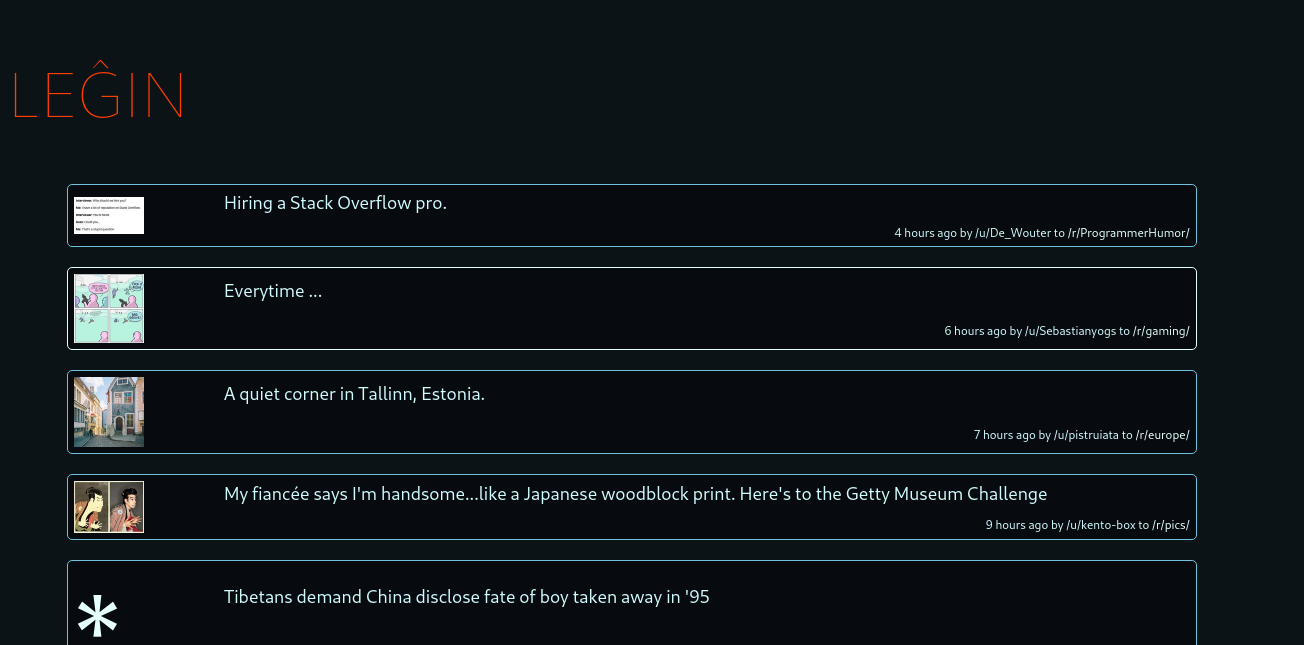
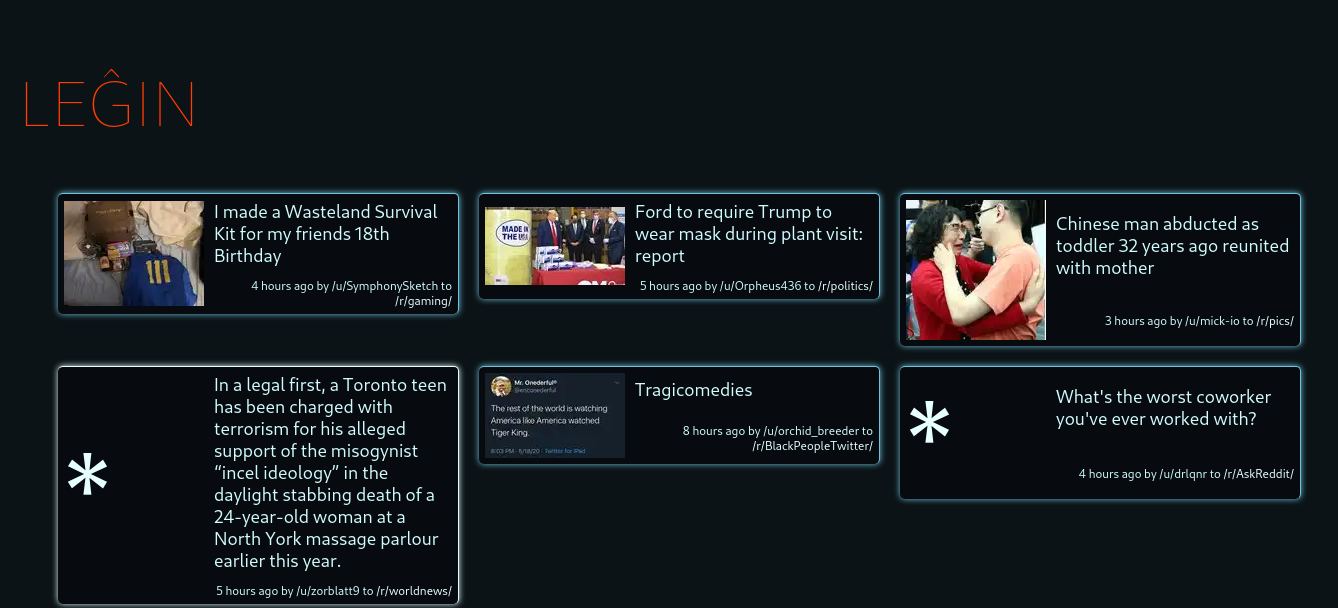
Give it more neon lighting

Changed region(s): [[0.0307, 0.2812, 0.9816, 1.0], [0.0, 0.0938, 0.1534, 0.2188]]

diff --git a/src/Content.svelte b/src/Content.svelte
@@ -13,8 +13,11 @@
 		text-align: left;
 		font-size: 18px;
 		border: 1px solid #6FC3DF;
+		border-bottom: 0px;
+		border-left: 0px;
 		border-radius: 5px;
 		background-color: #070A0F;
+		box-shadow: 0 0 6px #6FC3DF;
 
 		display: grid;
 		grid-template-columns: auto;
@@ -27,6 +30,9 @@
 
 	.item:hover {
 		border: 1px solid #E6FFFF;
+		border-bottom: 0px;
+		border-left: 0px;
+		box-shadow: 0 0 6px #E6FFFF;
 	}
 
 	.item > * {
